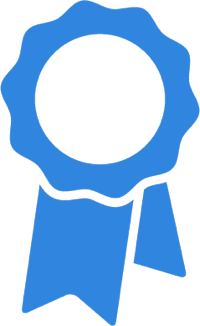
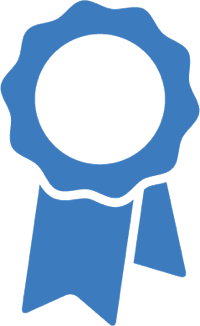
so much shit. new colorz. spit & shine.

diff --git a/app/assets/stylesheets/application.css.scss b/app/assets/stylesheets/application.css.scss
@@ -12,16 +12,18 @@
  *= require typography
  */
 
+@import 'variables';
+
 /* Selection */
 
 ::selection {
-  background: #FF7400;
+  background: $primary;
   color: #FFF;
   border-color: #FFF;
 }
 
 ::-moz-selection {
-  background: #FF7400;
+  background: $primary;
   color: #FFF;
   border-color: #FFF;
 }
@@ -31,7 +33,7 @@
 html { height: 100%; }
 
 body {
-  background-color: #f8f6f3;
+  background-color: $background;
   margin: 0;
   font-family: "Open Sans", "HelveticaNeue-Light", "Helvetica Neue Light", "Helvetica Neue", Helvetica, Arial, "Lucida Grande", sans-serif;
   font-weight: 500;
@@ -161,7 +163,7 @@ nav .inner {
   height: 50px;
   padding: 0;
   position: relative;
-  background-color: #FF7400;
+  background-color: $primary;
   -webkit-box-shadow: 0 1px 5px rgba(20,20,20,.2);
      -moz-box-shadow: 0 1px 5px rgba(20,20,20,.2);
           box-shadow: 0 1px 5px rgba(20,20,20,.2);
@@ -174,7 +176,7 @@ nav .inner .left {
   left: 0;
   top: 0;
   padding-left: 20px;
-  border-left: 1px solid #FF9640;
+  border-left: 1px solid $secondary;
 }
 
 nav .inner h2 {
@@ -203,8 +205,8 @@ nav .inner .right, nav .inner .left {
 
 nav .inner .right div {
   font-size: 24px;
-  border-left: 1px solid #FF9640;
-  border-right: 1px solid #FF9640;
+  border-left: 1px solid $secondary;
+  border-right: 1px solid $secondary;
   margin-right: -1px;
   padding-left: 20px;
   padding-right: 20px;
@@ -217,7 +219,7 @@ nav .inner .right a:last-child div {
 
 nav .inner .right a:hover div {
   background-color: #FFF;
-  color: #FF7400;
+  color: $primary;
   border-color: transparent;
 }
 
@@ -272,7 +274,7 @@ select {
 }
 
 .blue {
-  color: #3086df !important;
+  color: #487EBD !important;
 }
 
 .yellow {
@@ -351,11 +353,11 @@ a:link:after, a:after {
 }
 
 a:hover {
-  color: #FF7400;
+  color: $primary;
 }
 
 a:hover:after {
-  border-color: #FF7400;
+  border-color: $primary;
 }
 
 a:active {
@@ -552,7 +554,7 @@ section .inner.home {
   color: #111;
 }
 
-.tile:active .frame, .tile:active .ribbon {
+.tile:active .frame, .tile:active .ribbon, .item:active .ribbon {
   opacity: 1 !important;
 }
 
@@ -609,7 +611,7 @@ section .inner.home {
   height: 395px;
 }
 
-.tile:hover {
+.tile:hover, .item:hover {
   .frame {
     bottom: 0;
   }
@@ -652,7 +654,7 @@ section .inner.home {
 /* Top page */
 
 .item {
-	border: 1px dashed #CCC;
+	border: 1px solid #DDD;
 	width: 100%;
 	text-decoration: none;
 	margin-top: -1px;
@@ -701,7 +703,7 @@ section .inner.home {
 
 .item .top-frame {
   position: relative;
-  border-right: 1px dashed #DDD;
+  border-right: 1px solid #DDD;
   margin-right: 20px;
   margin-top: 0;
   padding-bottom: 20px;
@@ -736,7 +738,7 @@ section .inner.home {
 
 button, input[type="submit"] {
   border: 0;
-  background: #FF7400;
+  background: $primary;
   color: #FFF;
   font-size: 1em;
   padding-left: 10px;
@@ -750,8 +752,8 @@ button, input[type="submit"] {
 
   &:hover, input[type="submit"]:hover, &:active, input[type="submit"]:active {
     background-color: #FFF;
-    color: #FF7400;
-    border: 2px solid #FF7400;
+    color: $primary;
+    border: 2px solid $primary;
     padding-left: 8px;
     padding-right: 8px;
     padding-top: 5px;

diff --git a/app/assets/stylesheets/entries/show.css.scss b/app/assets/stylesheets/entries/show.css.scss
@@ -1,3 +1,5 @@
+@import 'variables';
+
 nav {
   position: absolute;
   max-width: 100%;
@@ -74,7 +76,7 @@ nav .inner .middle {
 	position: relative;
 	left: 45%;
 	top: -56%;
-	color: #FF7400;
+	color: $primary;
 	font-size: 8px;
 }
 

diff --git a/app/assets/stylesheets/variables.css.scss b/app/assets/stylesheets/variables.css.scss
@@ -1,0 +1,13 @@
+/* Orange
+
+$primary: #FF7400;
+$secondary: #FF9640;
+$background: #F8F6F3;
+
+*/
+
+/* Blue */
+
+$primary: #487EBD;
+$secondary: #6D97C9;
+$background: #F5F6FA;

diff --git a/app/controllers/users_controller.rb b/app/controllers/users_controller.rb
@@ -13,7 +13,7 @@ class UsersController < ApplicationController
   def show
     @user = User.find_by_username(params[:id])
 
-    @entries = Entry.where(:user_id => @user.id)
+    @entries = Entry.where(:user_id => @user.id).sort_by { |entry| -entry.score }
 
     @challenges = Challenge.where(:user_id => @user.id)
 
